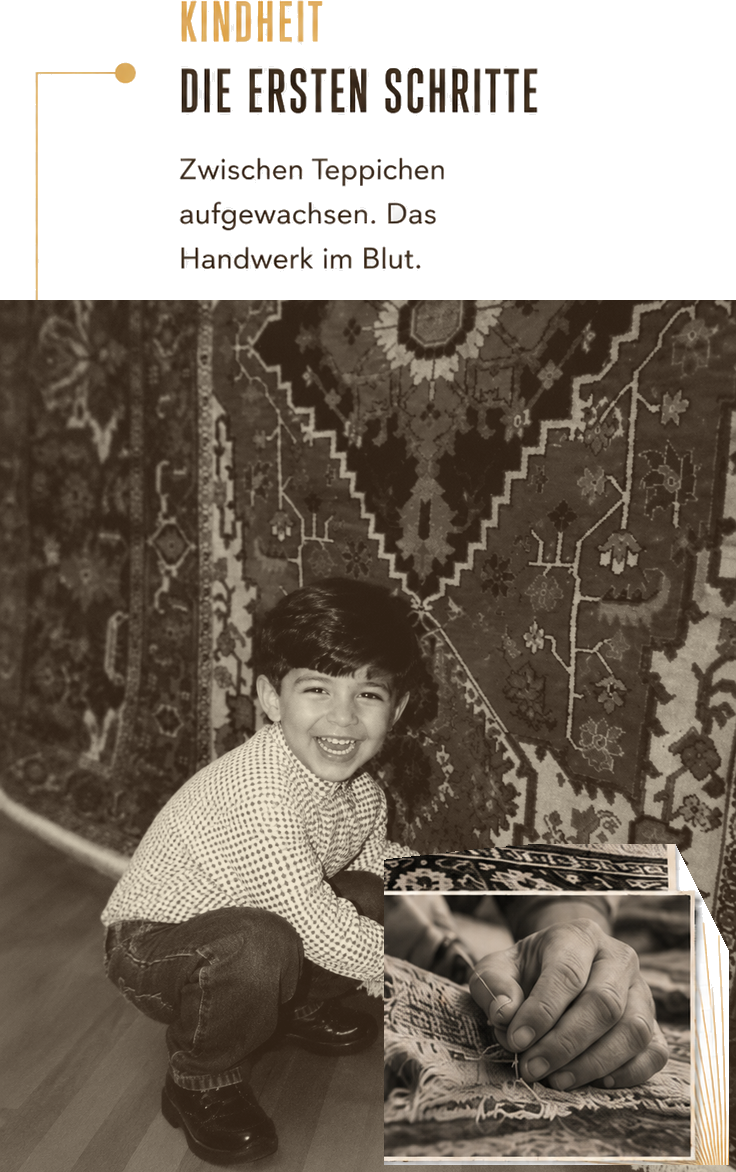
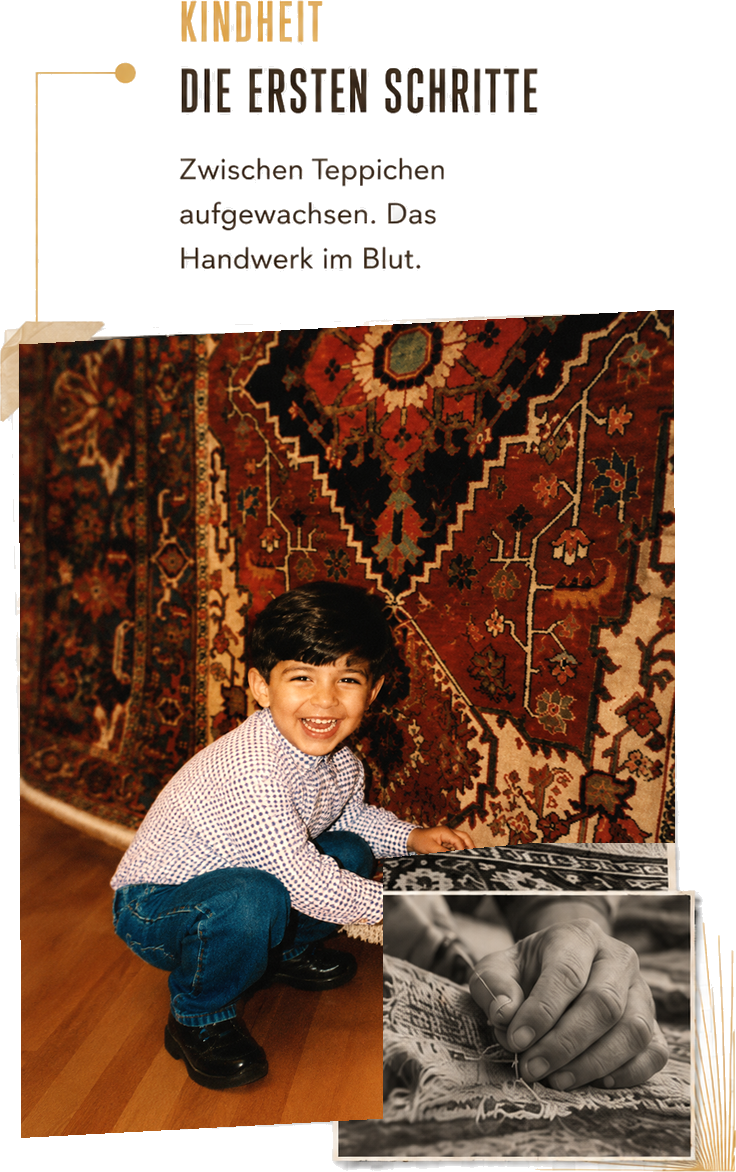
Atelier: Familienfotos passgenau in Rahmen eingepasst (Perspektiv-Warp); Kind-Foto in Farbe

diff --git a/index.html b/index.html
@@ -389,9 +389,9 @@
   </div>
   <div class="ch-scroller">
     <div class="ch-stage">
-      <img class="ch-el ch-grand" src="assets/img/heritage/grand.png?v=2" alt="1972 – Der Grossvater: der Anfang einer Handwerksgeschichte" loading="lazy" decoding="async">
+      <img class="ch-el ch-grand" src="assets/img/heritage/grand.png?v=3" alt="1972 – Der Grossvater: der Anfang einer Handwerksgeschichte" loading="lazy" decoding="async">
       <img class="ch-el ch-handwerk" src="assets/img/heritage/handwerk.png" alt="Handwerk seit Generationen – das Atelier Soltani" loading="lazy" decoding="async">
-      <img class="ch-el ch-kind" src="assets/img/heritage/kind.png?v=2" alt="Kindheit – die ersten Schritte: zwischen Teppichen aufgewachsen" loading="lazy" decoding="async">
+      <img class="ch-el ch-kind" src="assets/img/heritage/kind.png?v=3" alt="Kindheit – die ersten Schritte: zwischen Teppichen aufgewachsen" loading="lazy" decoding="async">
       <img class="ch-el ch-fabio" src="assets/img/heritage/fabio.png?v=3" alt="Fabio Soltani in seinem Atelier" loading="lazy" decoding="async">
       <div class="ch-el ch-today">
         <span class="ch-today-eb">Heute</span>
